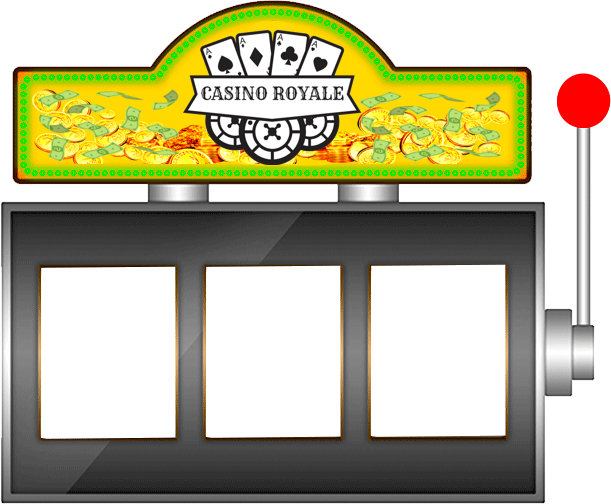
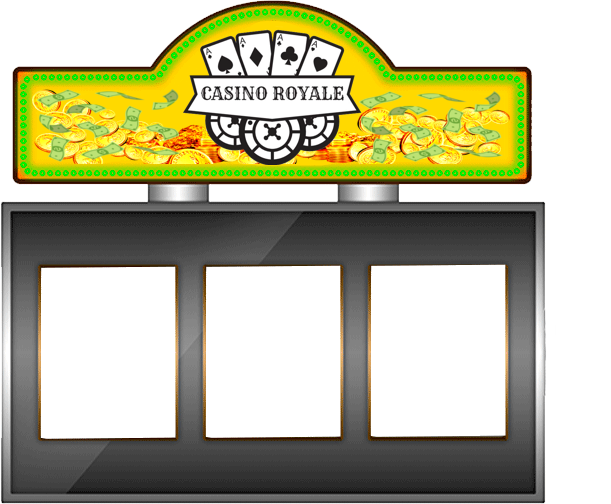
slot machine layout first version

Changed region(s): [[0.8707, 0.1488, 1.0, 0.8036]]

diff --git a/casino-react-app/src/components/SlotMachine/slot.js b/casino-react-app/src/components/SlotMachine/slot.js
@@ -198,26 +198,48 @@ axios.get(`/DB/user/get/${ResponseNickName}`)
                     <img className="icon back_money_prompt" src="img/general/money_icon.png" alt="money_icon" />
                 </div>
             </div>
-            <div class="doors">
-              <div class="door">
-                <div class="boxes">
-                  {/* <div className="box">?</div> */}
+            <div className="machine">
+                <div className="slot-machine-layer">
+                    <img className="slot-machine" src="img/slot/slotMachine.png" alt="slotMachine" />
                 </div>
-              </div>
 
-              <div class="door">
-                <div class="boxes">
-                  {/* <div className="box">?</div> */}
-                </div>
-              </div>
+                <div className="slot-machine-layer">
+                    <div className="doors">
+                        <div className="door">
+                            <div className="boxes">
+                                {/* <div className="box">?</div> */}
+                            </div>
+                        </div>
 
-              <div class="door">
-                <div class="boxes">
-                  {/* <div className="box">?</div> */}
+                        <div className="door">
+                            <div className="boxes">
+                                {/* <div className="box">?</div> */}
+                            </div>
+                        </div>
+
+                        <div className="door">
+                            <div className="boxes">
+                                {/* <div className="box">?</div> */}
+                            </div>
+                        </div>
+                    </div>
                 </div>
-              </div>
+
+                <div className="slot-machine-layer">
+                    <div className="spinner" id="spinner" onClick={handleSpin}>
+                        <div id="slot-body">
+                            <div id="slot-trigger">
+                                <animated.div className="arm" style={armProps}><div className="knob" style={knobProps}></div></animated.div>
+                                <animated.div className="arm-shadow" style={armShadowProps}></animated.div>
+                                <animated.div className="ring1"><animated.div className="shadow" style={ring1ShadowProps}></animated.div></animated.div>
+                                <animated.div className="ring2"><animated.div className="shadow" ></animated.div></animated.div>
+                            </div>
+                        </div>
+                    </div>
+                </div>
+
             </div>
-
+            <div className="filler"></div>
             <div class="buttons">
               <button id="reseter" onClick={handleInit}>Reset</button>
             </div>
@@ -227,16 +249,6 @@ axios.get(`/DB/user/get/${ResponseNickName}`)
                 <button className="BetMoneyButton" id="10" onClick={handleChipClick}><img className="MoneyChip" src="img/slot/chip10.png" alt="user_icon" /></button>
                 <button className="BetMoneyButton" id="20" onClick={handleChipClick}><img className="MoneyChip" src="img/slot/chip20.png" alt="user_icon" /></button>
                 <button className="BetMoneyButton" id="25" onClick={handleChipClick}><img className="MoneyChip" src="img/slot/chip25.png" alt="user_icon" /></button>
-            </div>
-            <div id="spinner" onClick={handleSpin}>
-                <div id="slot-body">
-                    <div id="slot-trigger">
-                        <animated.div className="arm" style={armProps}><div className="knob" style={knobProps}></div></animated.div>
-                        <animated.div className="arm-shadow" style={armShadowProps}></animated.div>
-                        <animated.div className="ring1"><animated.div className="shadow" style={ring1ShadowProps}></animated.div></animated.div>
-                        <animated.div className="ring2"><animated.div className="shadow" ></animated.div></animated.div>
-                    </div>
-                </div>
             </div>
         </div>
     );

diff --git a/casino-react-app/src/components/SlotMachine/slot.css b/casino-react-app/src/components/SlotMachine/slot.css
@@ -15,17 +15,36 @@ body {
   align-items: center;
 }
 
+.slot-machine-layer {
+    position: absolute;
+    top: 20%;
+    left: calc(50% - 305px);
+    width: 610px;
+    height: 510px;
+}
+
+.slot-machine {
+    width: 100%;
+    height: auto;
+}
+
 .doors {
-  display: flex;
+    display: flex;
+    padding-top: 250px;
+    padding-left: 30px;
 }
 
 .door {
   background: #fafafa;
-  width: 100px;
-  height: 110px;
+  width: 145px;
+  height: 190px;
   overflow: hidden;
   border-radius: 5px;
-  margin: 5px;
+  margin: 9px;
+}
+
+.filler {
+    height: 50%;
 }
 
 .boxes {
@@ -62,7 +81,7 @@ button {
 
 #slot-trigger {
     cursor: pointer;
-    height: 85px;
+    height: 100px;
     right: -40px;
     top: 30px;
     position: absolute;
@@ -72,6 +91,11 @@ button {
 #slot-trigger div {
     position: absolute;
     top: 0;
+}
+
+.spinner {
+    padding-top: 230px;
+    padding-left: 340px;
 }
 
 #slot-trigger .ring1 {
@@ -222,4 +246,17 @@ button {
     position: relative;
     width: 200px;
     z-index: 2;
+}
+
+.BetMoneyButton {
+    width: 60px;
+    height: auto;
+    padding: 0;
+}
+
+.MoneyChip {
+    width: 60px;
+    height: auto;
+    padding: 0;
+    background: #1a2b45;
 }
